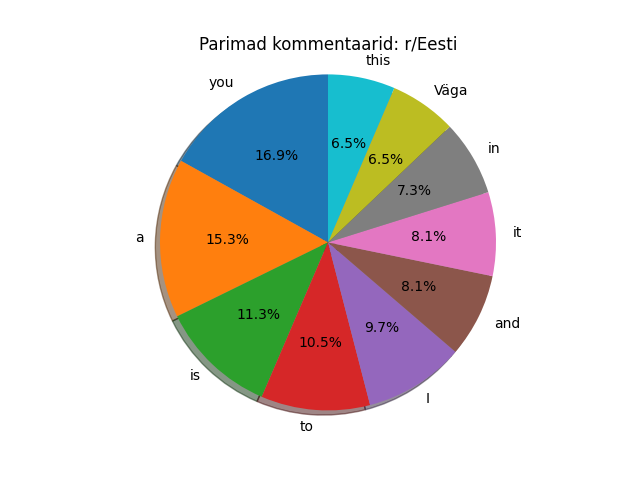
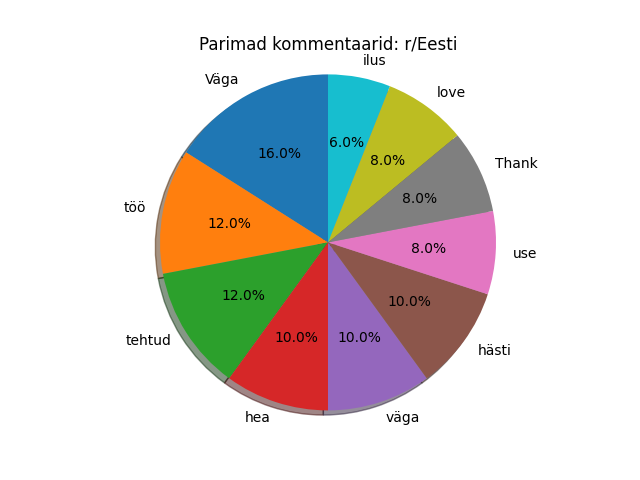
update

diff --git a/reddit.py b/reddit.py
@@ -21,13 +21,26 @@ commonWords = {'jah', 'aga', 'ei', 'ok', 'kas', 'mina', 'millal', 'kuidas', 'ja'
                 'rohkem', 'nii', 'mina', 'rohkem', 'valja', 'ule', 'mote', 'ma', 'rohkem', 'valja', 'up', 'mooned', 'kuidas', 'ule', 
                 'uhel', 'mis', 'uks', 'mida', 'ei', 'saa', 'ju', 'mu', 'voiks', 'tegi', 'ei', 'tea', 'olid', 'kas', 'see', 'et',
                 'see', 'on', 'See', 'ta', 'meie', 'asi', '', 'siin', 'midagi', 'voib', 'palju', 'need', 'sina', 'Kas', 'nuud',
-                'mis', 'laheb', 'olid', 'me', 'olen', 'ule', 'mida', 'nemad', 'nad', 'kutsuvad', 'sa', 'ei', 'on', 'voib', 'mu', 
+                'mis', 'it', 'a', 'me', 'olen', 'ule', 'mida', 'nemad', 'nad', 'kutsuvad', 'sa', 'ei', 'on', 'voib', 'mu', 
                 'nende', 'nad', 'koos', 'aga', 'umbes', 'sooviksid', 'seal', 'Sina', 'uks', 'tema', 'tema', 'kes', 'tema', 'tema', 
                 'meie', 'asi', '', 'tal', 'oli', 'tema', 'kes', 'tema', 'tema', 'mida', 'teine', 'helesinine', 'siin', 'pole', 
                 'mis', 'oli', 'ma', 'ka', 'siis', 'kui', 'kui', 'motted', 'et', 'see', 'pole', 'kas', 'see', 'on', 'See', 
                 'maletas', 'et', 'ta', 'on', 'Meie', 'veel', 'valja', 'ara', 'on', 'nad', 'utlesid', 'ainult', 'sooviksid', 
                 'teised', 'sisse', 'Ta', 'mida', 'ma', 'et', 'et', 'see', 'mote', 'et', 'nii', 'palju', 'eesti', 'nagu', 'See',
-                'ikka', 'selle', 'kes', 'Ma', 'oma', 'voi', 'vaga', 'tema', 'mingi', 'Kui', 'juba', 'seal', 'koik'}
+                'ikka', 'selle', 'kes', 'Ma', 'oma', 'voi', 'vaga', 'tema', 'mingi', 'Kui', 'juba', 'seal', 'koik'
+                'yes', 'but', 'no', 'ok', 'do', 'work', 'to', 'did', 'Very', 'whether', 'I', 'when', 'how', 'and', 'of', 'the', 'for', 'I', 'this',
+                'is', 'he/she/it', 'they', 'but', 'to be', 'can', 'you', 'that', 'not', 'is', 'you', 'your', 'not', 'could', 'my', 'those', 
+                'to them', 'they', 'together', 'but', 'about', 'how', 'there', 'you', 'and', 'there', 'You', 'from', 'send', 'just',
+                'more', 'so', 'I', 'more', 'out', 'over', 'thought', 'I', 'more', 'out', 'up', 'moons', 'how', 'over', 
+                'one', 'what', 'one', 'what', 'not', 'can', 'know', 'my', 'could', 'made', 'not', 'know', 'were', 'whether', 'this', 'that',
+                'this', 'is', 'This', 'he/she/it', 'our', 'thing', '', 'here', 'something', 'can', 'many', 'these', 'you', 'Are', 'now',
+                'what', 'goes', 'were', 'we', 'am', 'over', 'what', 'they', 'they', 'call', 'you', 'not', 'is', 'can', 'my', 
+                'those', 'they', 'together', 'but', 'about', 'wish', 'there', 'You', 'one', 'he/she/it', 'he/she/it', 'who', 'he/she/it', 'he/she/it', 
+                'our', 'thing', '', 'he/she/it', 'was', 'he/she/it', 'who', 'he/she/it', 'he/she/it', 'what', 'another', 'light blue', 'here', 'is not', 
+                'what', 'was', 'I', 'also', 'then', 'when', 'when', 'thoughts', 'that', 'this', 'is not', 'whether', 'this', 'is', 'This', 
+                'remembered', 'that', 'he/she/it', 'is', 'Our', 'still', 'out', 'off', 'is', 'they', 'said', 'only', 'wish', 
+                'others', 'in', 'He/she', 'what', 'I', 'that', 'that', 'this', 'thought', 'that', 'so', 'much', 'Estonian', 'like', 'This',
+                'still', 'this', 'who', 'I', 'own', 'or', 'very', 'he/she/it', 'some', 'If', 'already', 'there', 'all'}
 
 for submission in subreddit.top(limit=10):
     submission.comments.replace_more(limit=0)
